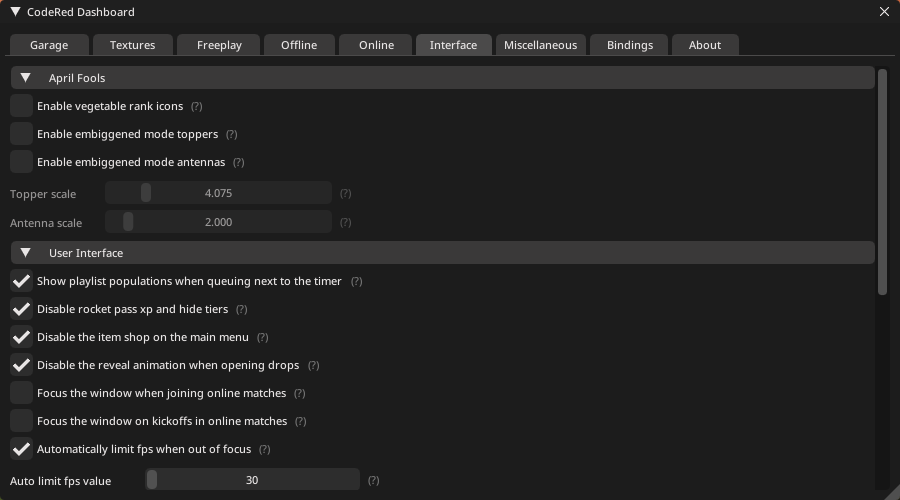
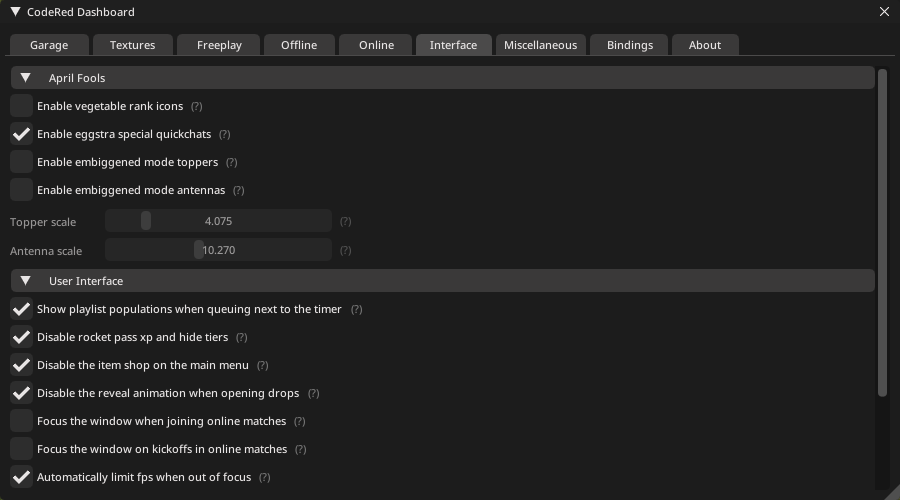
Initial Commit

diff --git a/documentation.html b/documentation.html
@@ -98,7 +98,7 @@
                     <li class="nav-item"><a class="nav-link scrollto" href="#item-6-5">Open Source</a></li>
                     <li class="nav-item"><a class="nav-link scrollto" href="#item-6-6">.NET 7.0</a></li>
 				    <li class="nav-item section-title mt-3"><a class="nav-link scrollto" href="#section-7"><span class="theme-icon-holder me-2"><i class="fas fa-book"></i></span>Changelog</a></li>
-				    <li class="nav-item"><a class="nav-link scrollto" href="#item-7-1">Version 1.7.1</a></li>
+				    <li class="nav-item"><a class="nav-link scrollto" href="#item-7-1">Version 1.7.2</a></li>
 			    </ul>
 		    </nav>
 	    </div>
@@ -988,6 +988,10 @@
                                     <tr>
                                         <th class="theme-bg-light"><b>interface_april_antennas &lttrue-false&gt</b></th>
                                         <td>Enable april fools 2018 "embiggened mode" antennas.</td>
+                                    </tr>
+                                    <tr>
+                                        <th class="theme-bg-light"><b>interface_april_chat &lttrue-false&gt</b></th>
+                                        <td>Enable april fools 2023 "eggstra special" quickchat overrides.</td>
                                     </tr>
                                     <tr>
                                         <th class="theme-bg-light"><b>interface_topper_scale &lt0.1-25.0&gt</b></th>
@@ -2073,6 +2077,14 @@
 					    <h1 class="docs-heading">Changelog</h1>
 				    </header>
 				     <section class="docs-section" id="item-7-1">
+                        <section class="docs-section">
+                            <h2 class="section-heading">Version 1.7.2 (June 22nd 2023)</h2>
+                            <h5>- Added a new <code>interface_april_chat</code> setting, which enables the april fools "eggstra special" quickchat overrides.</h5>
+                            <h5>- Fixed ImGui windows not rendering when the game went out of focus, this was only supposed to happen when the game was minimized.</h5>
+                            <h5>- Fixed a rare bug that caused mmr not to display if you were having packet loss or a poor internet connection.</h5>
+                            <h5>- Improvements to the DirectX11 hook, possibly fixing alt tabbing issues when in fullscreen mode.</h5>
+                        </section>
+
                         <section class="docs-section">
                             <h2 class="section-heading">Version 1.7.1 (June 17th 2023)</h2>
                             <h5>- Custom post process effects can now be applied in online games.</h5>
